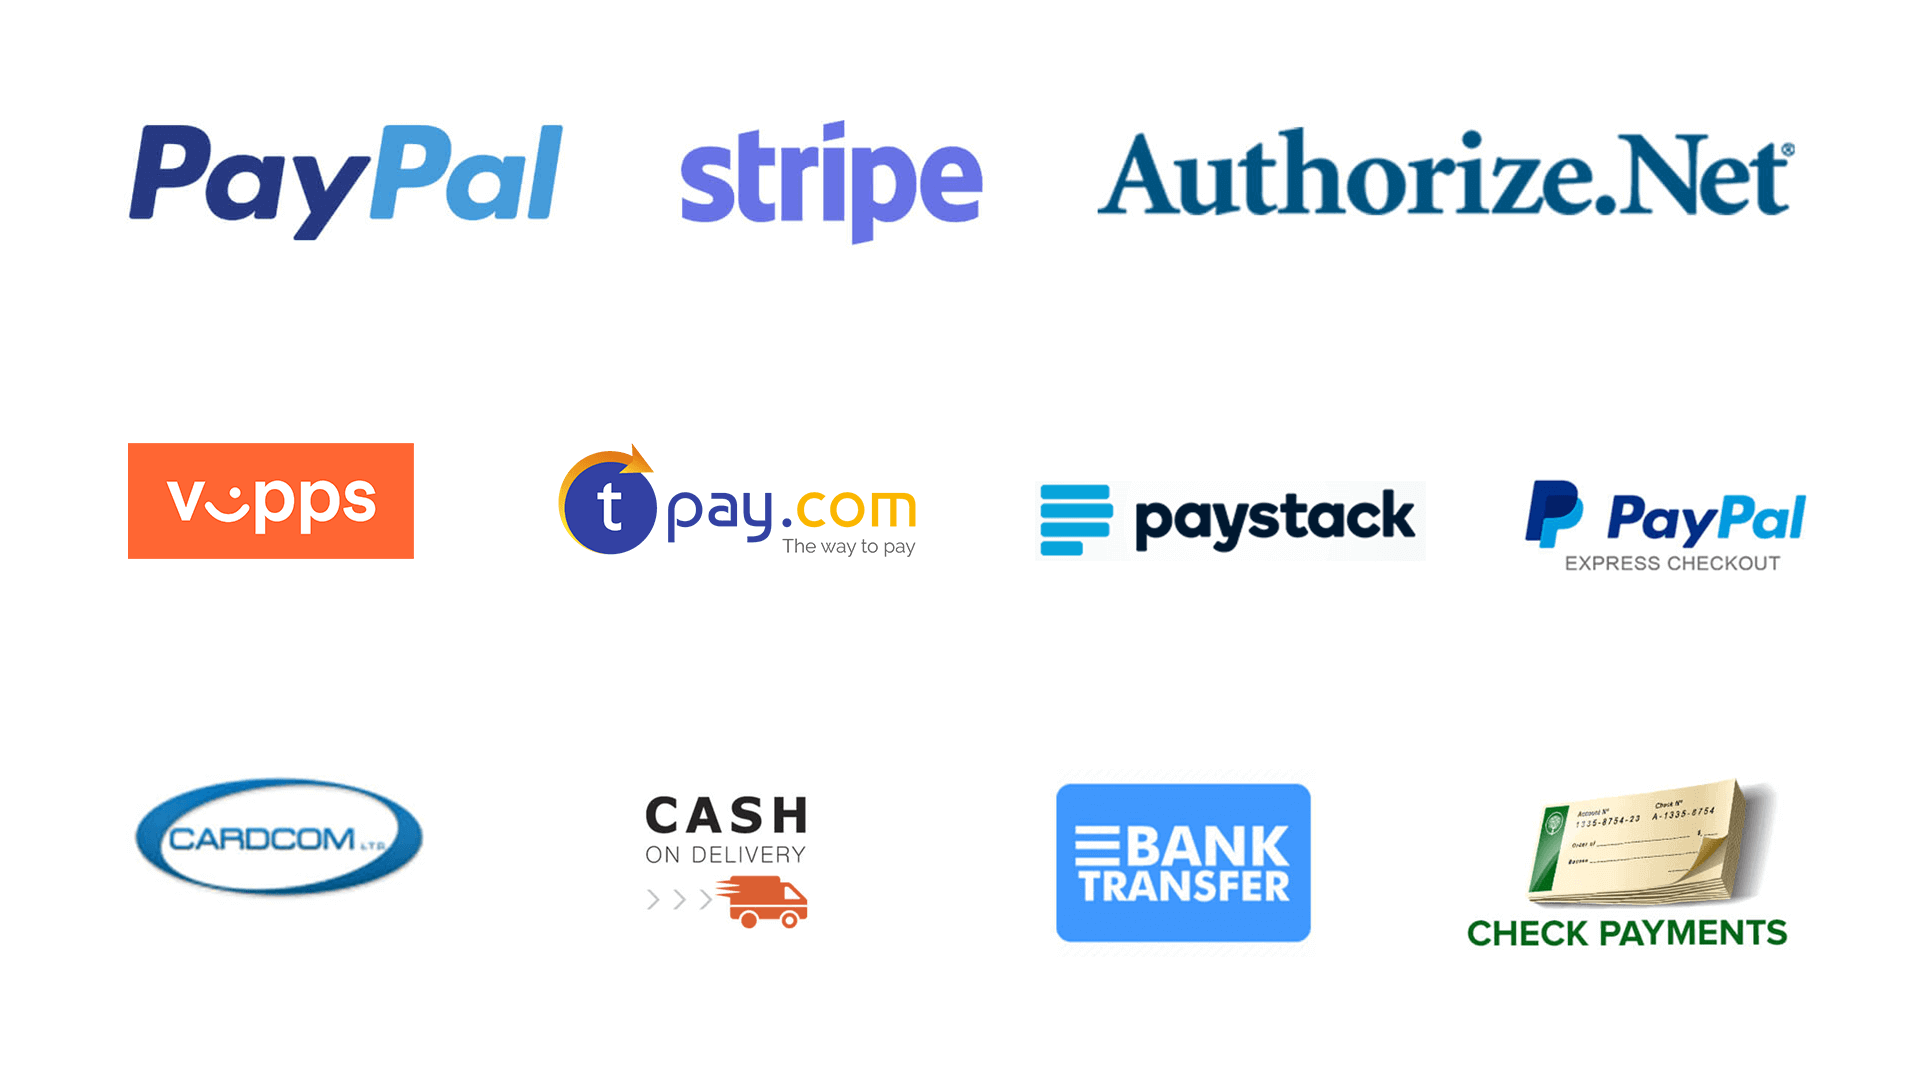
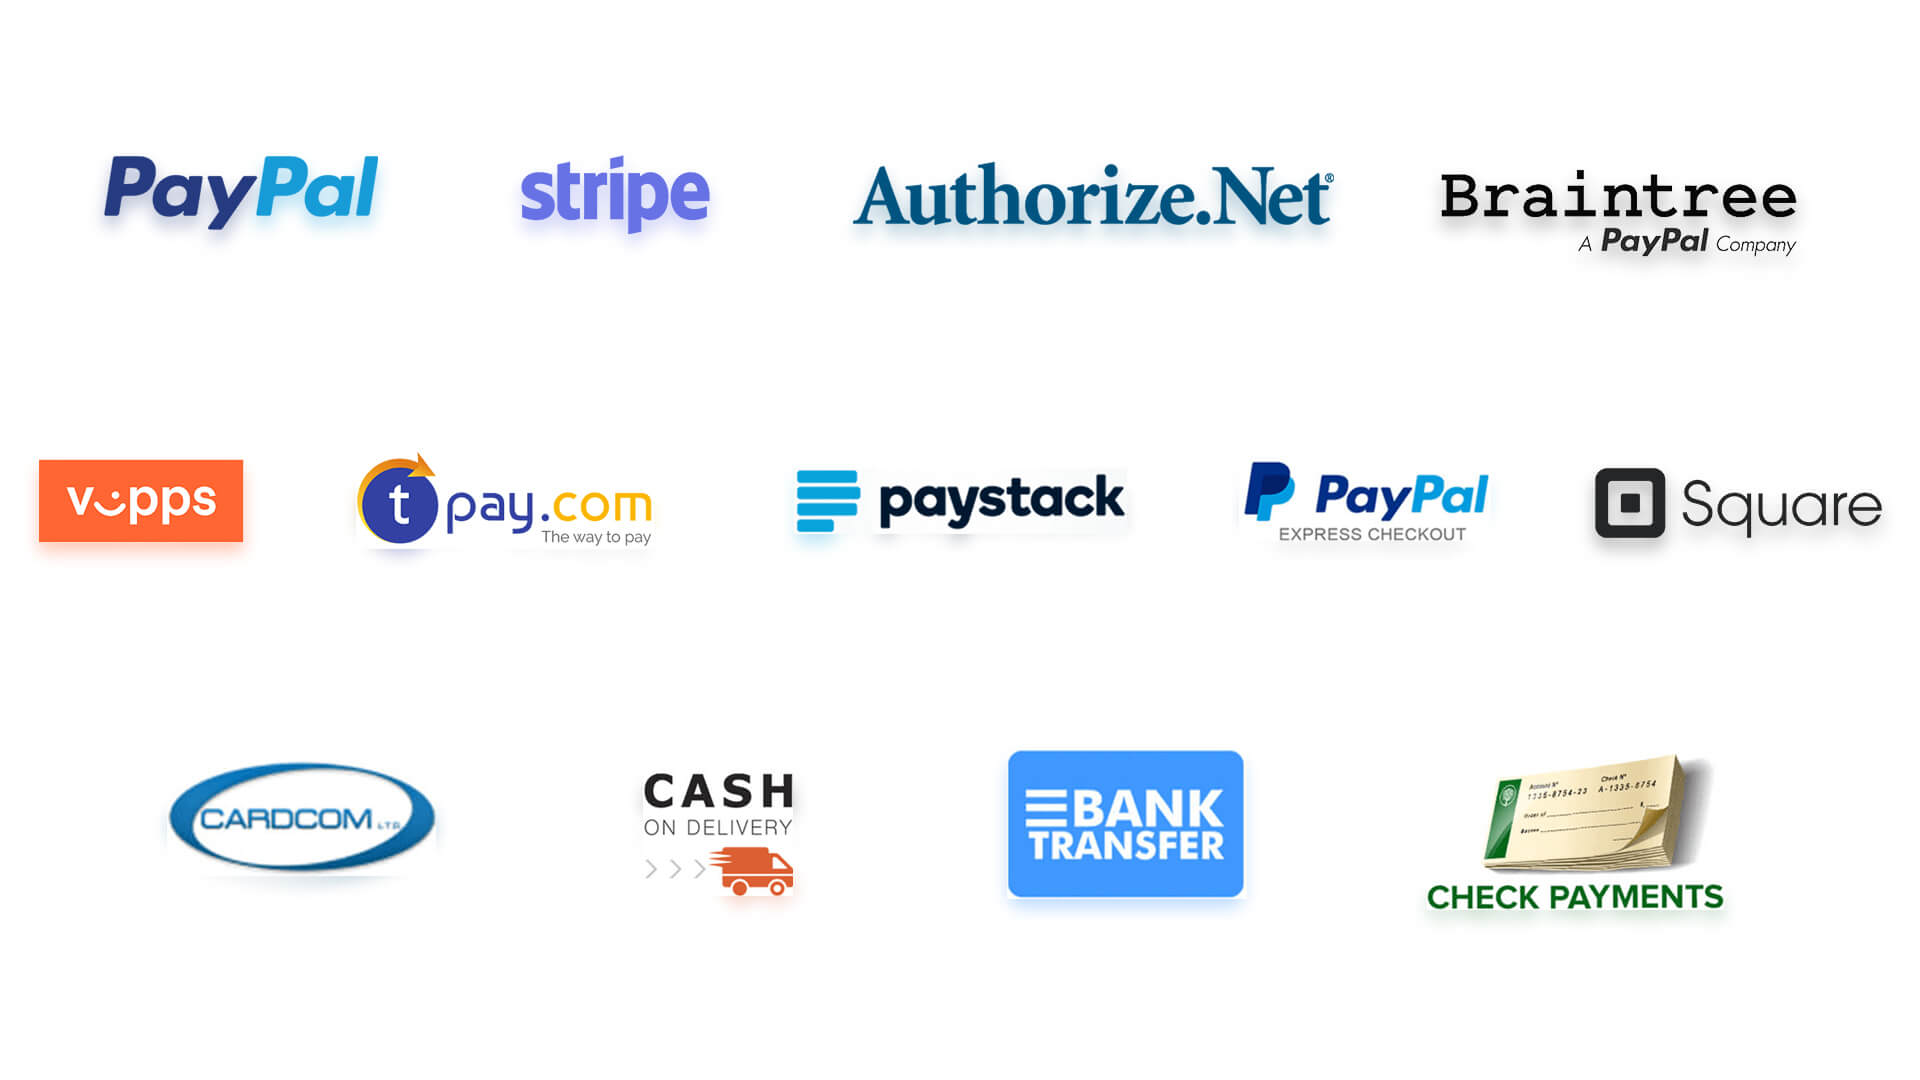
Updated Overview Pro Feature Images

diff --git a/admin/partials/templates/mwb-wocuf-overview.php b/admin/partials/templates/mwb-wocuf-overview.php
@@ -81,7 +81,7 @@ if ( ! defined( 'ABSPATH' ) ) {
 		<div class="mwb_upsell_overview_supported_woo_addons">
 
 			<div class="mwb_upsell_overview_supported_woo_addons_banner">
-				<img src="<?php echo esc_url( MWB_WOCUF_URL . 'admin/resources/woo-subscription-compatibility.png' ); ?>">
+				<img src="<?php echo esc_url( MWB_WOCUF_URL . 'admin/resources/woo-subscription-compatibility.jpg' ); ?>">
 			</div>
 
 		</div>
